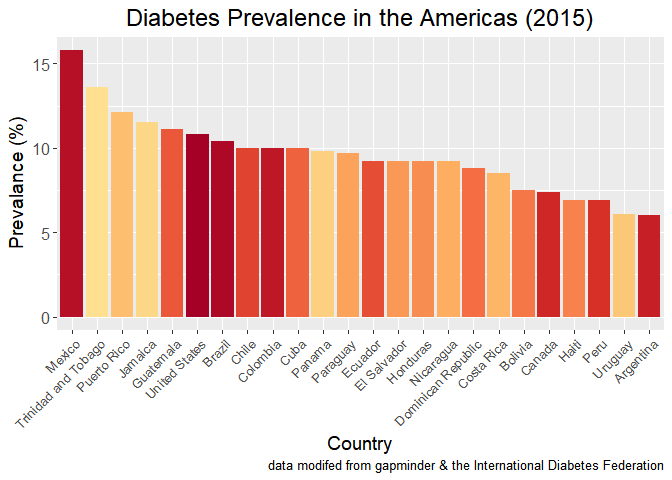
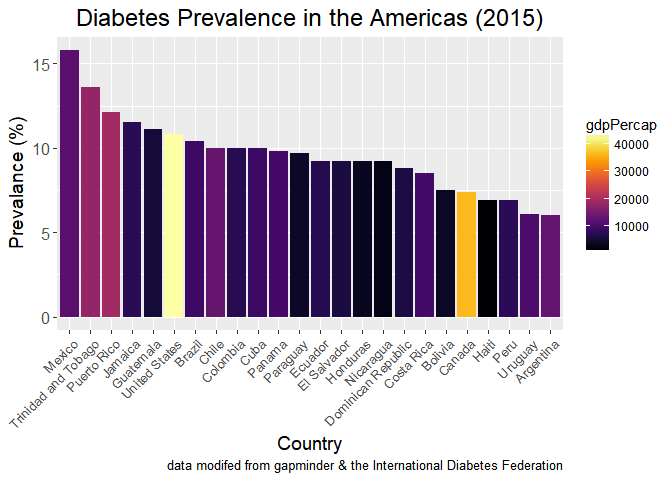
updating lots of figs

diff --git a/Hw05/HW05_factor_figure_management.md b/Hw05/HW05_factor_figure_management.md
@@ -292,12 +292,18 @@ Visualization design
 Lets look at diabetes prevalence in the America's.
 
 ``` r
+library(viridis)
+```
+
+    ## Loading required package: viridisLite
+
+``` r
 myplot <- function(my_data_table) {  
   filter(my_data_table, year == 2007) %>%  ## so have 1 entry per country
   filter(continent == "Americas") %>%
   filter(country != "Venezuela") %>% ### remove venezuela b/c is NA
-  ggplot(aes(x = country, y = Diabetes_prevalance_2015)) +
-  geom_col(aes(fill = country)) +
+  ggplot(aes(x = country, y = Diabetes_prevalance_2015, fill = gdpPercap)) +
+  geom_col() +
   ggtitle("Diabetes Prevalence in the Americas (2015)") +
   labs(y = "Prevalance (%)", 
        x = "Country",
@@ -307,8 +313,7 @@ myplot <- function(my_data_table) {
         plot.title = element_text(hjust = 0.5, size=18),
         axis.text.x = element_text(size=10),
         axis.text.y = element_text(size=12)) +
-  scale_fill_manual(values = gapminder::country_colors) +
-  theme(legend.position="none") ### remove the legend 
+  scale_fill_viridis(option="inferno")
     
 }  
 
@@ -316,15 +321,17 @@ gapminder_diabetes_sort %>%
   myplot()
 ```
 
-![](HW05_factor_figure_management_files/figure-markdown_github-ascii_identifiers/unnamed-chunk-8-1.png) Venezuela showed up as blank because the country's name in the diabetes datatable was slightly different than in gapminder, and so it's value is listed as NA. Therefore I filtered it out from the graph.
+![](HW05_factor_figure_management_files/figure-markdown_github-ascii_identifiers/unnamed-chunk-8-1.png) Venezuela showed up as blank because the country's name in the diabetes data table was slightly different than in gapminder, and so it's value is listed as NA. Therefore I filtered it out from the graph.
 
-We can see above that the countries are sorted from highest to lowest prevelance. This is helpful to convey the information, as mentioned by Tamara Munzner. I did not have to use arrange to sort it, as it kept the order of the levels in country.
+We can see above that the countries are sorted from highest to lowest prevalence. This is helpful to convey the information, as mentioned by Tamara Munzner. I did not have to use arrange to sort it, as it kept the order of the levels in country.
 
-I used the color scheme that comes with gapminder. Not sure I understand it though. Anyways, from the graph we can see Mexico had the highest prevelance of diabetes, and Argentina had the lowest. Canada was towards the low end.
+I used a color scheme from veridis to give an accurate representation of the difference in gdpPercap between countries. There may be a slight trend, with higher gdpPercap countries having higher incidence of diabetes, but it is not clear. Canada and the US clearly stand out as having much higher gdpPercap than the rest.
+
+Also from the graph we can see Mexico had the highest prevalence of diabetes, and Argentina had the lowest. Canada was towards the low end.
 
 As I want to show this plot multiple times in a row (with slightly different inputs) I saved the plot settings to a function.
 
-Now lets do the same plot using the datatable read from the csv file. I expect the countries to be sorted alphabetically:
+Now lets do the same plot using the data table read from the csv file. I expect the countries to be sorted alphabetically:
 
 ``` r
 gapminder_diabetes_sort_csv %>% 
@@ -333,7 +340,7 @@ gapminder_diabetes_sort_csv %>%
 
 ![](HW05_factor_figure_management_files/figure-markdown_github-ascii_identifiers/unnamed-chunk-9-1.png)
 
-Now lets take the csv version again, and lets arrange by diabetes prevelance using arrange().
+Now lets take the csv version again, and lets arrange by diabetes prevalence using arrange().
 
 ``` r
 gapminder_diabetes_sort_csv %>% 
@@ -341,7 +348,7 @@ gapminder_diabetes_sort_csv %>%
   myplot()
 ```
 
-![](HW05_factor_figure_management_files/figure-markdown_github-ascii_identifiers/unnamed-chunk-10-1.png) It appears arrange does not effect the graph. The countries are still in alphabetical order. I tried it serveral different ways, but it appears arrange() does not effect the layout of the graph.
+![](HW05_factor_figure_management_files/figure-markdown_github-ascii_identifiers/unnamed-chunk-10-1.png) It appears arrange does not effect the graph. The countries are still in alphabetical order. I tried it several different ways, but it appears arrange() does not effect the layout of the graph.
 
 ``` r
 gapminder_diabetes_sort_csv %>% 
@@ -353,7 +360,7 @@ gapminder_diabetes_sort_csv %>%
   myplot()
 ```
 
-![](HW05_factor_figure_management_files/figure-markdown_github-ascii_identifiers/unnamed-chunk-11-1.png) Arrange sorts the datatable. So we can pass arrange into head, to select only 10 countries with the lowest diabetes prevalence. Then we can graph these 10 countries. The graph is still sorted alphabetically, but thanks to arrange() the 10 selected countries are the 10 with lowest diabetes rate. So in this way arrange was able to effect the graph. But the point still stands, the order in which the items are displayed on the graph is determined by the levels in the factor country, and arrange cannot override this.
+![](HW05_factor_figure_management_files/figure-markdown_github-ascii_identifiers/unnamed-chunk-11-1.png) Arrange sorts the data table. So we can pass arrange into head, to select only 10 countries with the lowest diabetes prevalence. Then we can graph these 10 countries. The graph is still sorted alphabetically, but thanks to arrange() the 10 selected countries are the 10 with lowest diabetes rate. So in this way arrange was able to effect the graph. But the point still stands, the order in which the items are displayed on the graph is determined by the levels in the factor country, and arrange cannot override this.
 
 Writing figures to file
 =======================
@@ -384,29 +391,32 @@ It appears ggsave automatically saves the most recently made plot. We need to sp
 
 Now lets load the files to see if the save worked properly:
 
-**diabetes\_plot** ![Alt text](diabetes_plot.svg)
+**diabetes\_plot.svg:** ![Alt text](diabetes_plot.svg)
 
-**diabetes\_plot2** ![Alt text](diabetes_plot2.svg)
+**diabetes\_plot2.svg:** ![Alt text](diabetes_plot2.svg)
+
+This confirms what I mentioned above about the importance of specifying the plot you would like to save, especially if it is not the most recent plot.
 
 We can also try saving it as a .jpg:
 
 ``` r
-ggsave("diabetes_plot3.jpg", plot = diabetes_plot, dpi = 300) 
+ggsave("diabetes_plot3.jpg", 
+       plot = diabetes_plot, 
+       dpi = 300, 
+       width = 30) 
 ```
 
-    ## Saving 7 x 5 in image
+    ## Saving 30 x 5 in image
 
-**diabetes\_plot3** ![Alt text](diabetes_plot3.jpg)
-
-This confirms what I mentioned above about the imporatance of specifying the plot you would like to save, especially if it is not the most recent plot.
+**diabetes\_plot3.jpg:** ![Alt text](diabetes_plot3.jpg)
 
 Reflection
 ==========
 
 I found [this page](http://stat545.com/block029_factors.html) from class quite helpful for this assignment.
 
-I had never written a function in R before, but after a bit of time on google I manged to figure it out. At first I tried to save the graph as an object, but that didn't work (don't think it's possible to do this). Then I thought a function might work. It was super helpful because I didn't want to copy and paste a massive block of code over and over. I found [this page](https://www.statmethods.net/management/userfunctions.html) helpful for how to write a function.
+I had never written a function in R before, but after a bit of time on Google I manged to figure it out. At first I tried to save the graph as an object, but that didn't work (don't think it's possible to do this). Then I thought a function might work. It was super helpful because I didn't want to copy and paste a massive block of code over and over. I found [this page](https://www.statmethods.net/management/userfunctions.html) helpful for how to write a function.
 
-I was also very confused when playing around with arrange(). I thought I was doing something wrong, but it turned out it was working properly from the beginning. It's just that arrange() does not directly effect the display order for items in a plot. I was able to understand this by examining the effect of arrange() on a datatable and also when piping into head().
+I was also very confused when playing around with arrange(). I thought I was doing something wrong, but it turned out it was working properly from the beginning. It's just that arrange() does not directly effect the display order for items in a plot. I was able to understand this by examining the effect of arrange() on a data table and also when piping into head().
 
-Also kids, don't finsih your stats homowork mere minutes before it's due. I almost crashed R and deleted the my Rproject, freaked out, but just mangaged to fix it in time... :thumbsup:
+Also kids, don't finish your stats homework mere minutes before it's due. I almost crashed R and deleted the Rproject file, freaked out, but just managed to fix it in time... :thumbsup:
